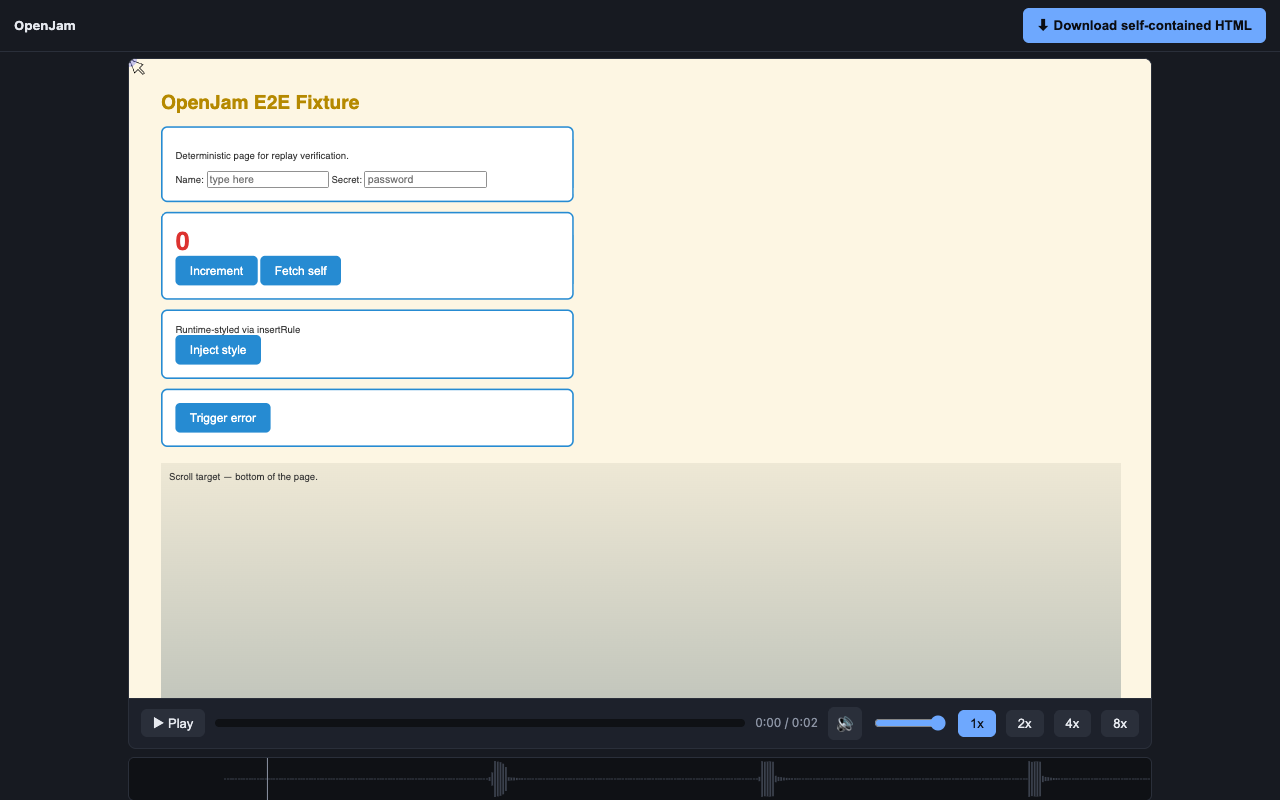
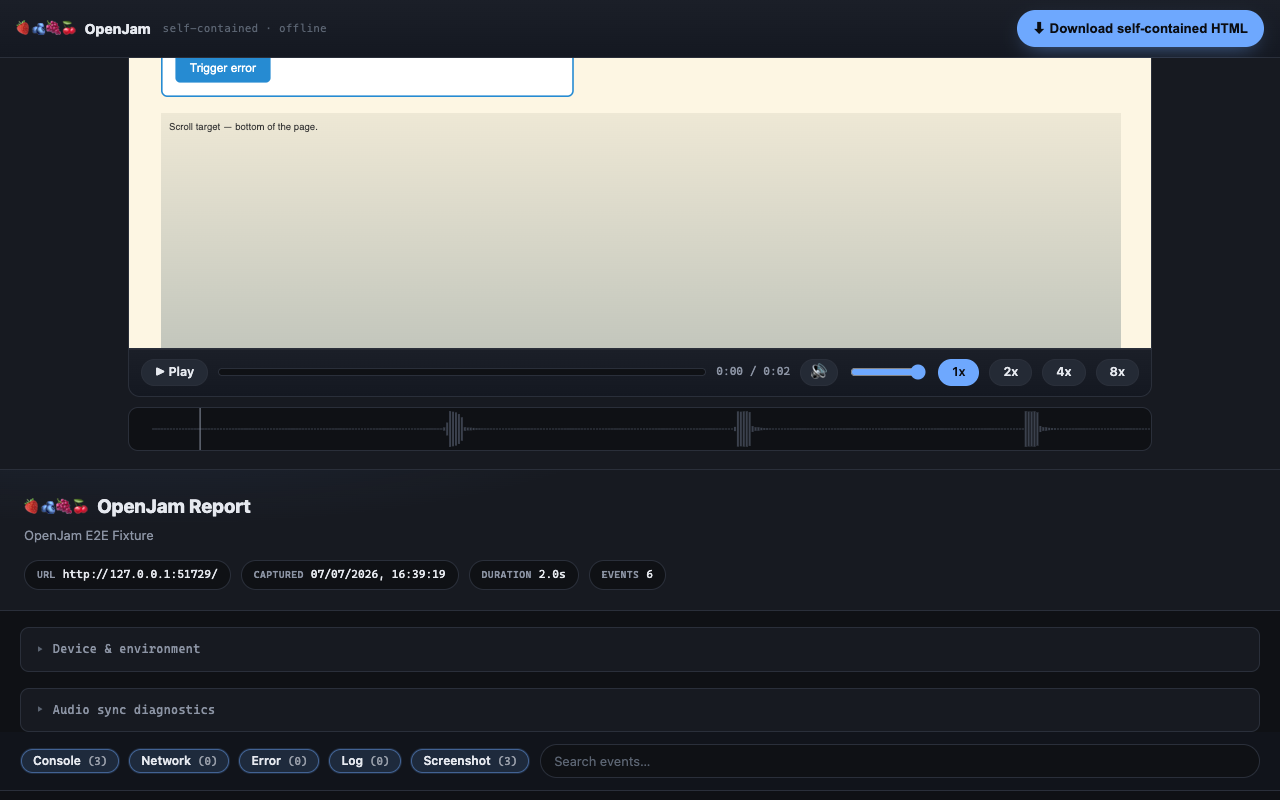
feat(viewer): restyle report/playback page to the popup design system
Rounded card surfaces, gradient/elevated panels, hairline borders, pill
filters and controls, mono microcopy, the 🍓🫐🍇🍒 mark, and the shared
palette tokens — matching <openjam-popup>. CSS-only: REPORT_CSS/REPLAY_CSS
in renderer.js and viewer.html's inline styles, plus an "offline"
microcopy line in the top bar. Every DOM hook the JS depends on is kept,
so renderer.js/viewer.js behaviour is unchanged (22/22 e2e green).

diff --git a/renderer.js b/renderer.js
@@ -4,70 +4,121 @@
 // standalone file via Function.prototype.toString().
 
 export const REPORT_CSS = `
-:root{--bg:#0f1115;--panel:#171a21;--panel2:#1d212b;--line:#2a2f3a;--fg:#e6e9ef;--muted:#8b93a3;--accent:#6ea8fe;--green:#3fb950;--orange:#d29922;--red:#f85149;--blue:#58a6ff;--violet:#bc8cff}
+:root{
+  --bg:#0f1115;--panel:#171a21;--panel2:#1d212b;--line:#2a2f3a;--fg:#e6e9ef;
+  --muted:#8b93a3;--dim:#5b6472;--accent:#6ea8fe;--accent-ink:#0b0d12;
+  --green:#3fb950;--orange:#d29922;--red:#f85149;--blue:#58a6ff;--violet:#bc8cff;--audio:#1d2b45;
+  --card:linear-gradient(180deg,#1b1f28,#141821);
+  --card-shadow:0 18px 40px -24px rgba(0,0,0,.8), 0 1px 0 rgba(255,255,255,.05) inset;
+  --sans:-apple-system,BlinkMacSystemFont,'Segoe UI',system-ui,Roboto,sans-serif;
+  --mono:ui-monospace,SFMono-Regular,'SF Mono','Cascadia Code',Menlo,Consolas,monospace;
+  --radius:14px;--radius-sm:9px;
+}
 *{box-sizing:border-box}
-body{margin:0;font:14px/1.5 -apple-system,BlinkMacSystemFont,"Segoe UI",Roboto,sans-serif;background:var(--bg);color:var(--fg)}
-header{padding:18px 22px;border-bottom:1px solid var(--line);background:var(--panel)}
-header h1{margin:0 0 4px;font-size:18px}
+body{margin:0;font:14px/1.55 var(--sans);background:var(--bg);color:var(--fg)}
+
+/* header */
+header{padding:22px 24px 20px;border-bottom:1px solid var(--line);
+  background:radial-gradient(760px 200px at 12% -60%,rgba(110,168,254,.10),transparent 70%),var(--panel)}
+header h1{margin:0 0 4px;font-size:19px;font-weight:800;letter-spacing:-.01em;display:flex;align-items:center;gap:9px}
+header h1::before{content:'🍓🫐🍇🍒';font-size:13px;letter-spacing:0;white-space:nowrap;flex:0 0 auto}
 header .sub{color:var(--muted);font-size:13px}
-.meta{display:flex;flex-wrap:wrap;gap:8px 20px;margin-top:10px;font-size:12px;color:var(--muted)}
-.meta b{color:var(--fg);font-weight:600}
-details.device{margin:0;border-bottom:1px solid var(--line);background:var(--panel)}
-details.device summary{padding:10px 22px;cursor:pointer;color:var(--muted);user-select:none}
-.device-grid{display:grid;grid-template-columns:repeat(auto-fill,minmax(260px,1fr));gap:6px 24px;padding:12px 22px 16px;font-size:12px}
-.device-grid div{overflow:hidden;text-overflow:ellipsis}
+.meta{display:flex;flex-wrap:wrap;gap:8px 10px;margin-top:15px}
+.meta>div{display:flex;align-items:center;gap:7px;background:var(--bg);border:1px solid var(--line);
+  border-radius:999px;padding:5px 12px;font-family:var(--mono);font-size:11.5px;color:var(--fg);
+  white-space:nowrap;overflow:hidden;text-overflow:ellipsis;max-width:100%}
+.meta b{color:var(--muted);font-weight:600;letter-spacing:.04em;text-transform:uppercase;font-size:10px}
+
+/* device + audio-sync diagnostics (details.device) */
+details.device{margin:16px 20px 0;border:1px solid var(--line);border-radius:var(--radius-sm);background:var(--panel);overflow:hidden}
+details.device summary{padding:12px 16px;cursor:pointer;color:var(--muted);user-select:none;
+  font-family:var(--mono);font-size:12px;letter-spacing:.03em;list-style:none;display:flex;align-items:center;gap:9px}
+details.device summary::-webkit-details-marker{display:none}
+details.device summary::before{content:'▸';color:var(--dim);transition:transform .15s ease;font-size:11px}
+details.device[open] summary::before{transform:rotate(90deg)}
+.device-grid{display:grid;grid-template-columns:repeat(auto-fill,minmax(260px,1fr));gap:8px 24px;
+  padding:4px 16px 16px;font-size:12px;font-family:var(--mono)}
+.device-grid div{overflow:hidden;text-overflow:ellipsis;white-space:nowrap}
 .device-grid span{color:var(--muted)}
-.toolbar{position:sticky;top:0;z-index:5;display:flex;flex-wrap:wrap;gap:8px;align-items:center;padding:10px 22px;background:var(--panel2);border-bottom:1px solid var(--line)}
-.toolbar input[type=search]{flex:1;min-width:160px;background:var(--bg);border:1px solid var(--line);color:var(--fg);padding:6px 10px;border-radius:6px}
+
+/* toolbar */
+.toolbar{position:sticky;top:0;z-index:5;display:flex;flex-wrap:wrap;gap:10px;align-items:center;
+  padding:12px 20px;background:rgba(17,20,27,.88);backdrop-filter:saturate(140%) blur(9px);
+  -webkit-backdrop-filter:saturate(140%) blur(9px);border-bottom:1px solid var(--line)}
+.toolbar input[type=search]{flex:1;min-width:180px;background:var(--bg);border:1px solid var(--line);
+  color:var(--fg);padding:8px 13px;border-radius:999px;font:13px/1 var(--sans);outline:none;
+  transition:border-color .15s ease,box-shadow .15s ease}
+.toolbar input[type=search]::placeholder{color:var(--dim)}
+.toolbar input[type=search]:focus{border-color:var(--accent);box-shadow:0 0 0 3px rgba(110,168,254,.18)}
 .filters{display:flex;gap:8px;flex-wrap:wrap}
-.filter{border:1px solid var(--line);background:var(--bg);color:var(--muted);padding:5px 10px;border-radius:999px;cursor:pointer;font-size:12px}
-.filter.on{color:var(--fg);border-color:var(--accent)}
-.filter .count{opacity:.7;margin-left:4px}
-.timeline{padding:8px 0 40px}
-.row{display:grid;grid-template-columns:84px 70px 1fr;gap:10px;padding:7px 22px;border-bottom:1px solid #1c1f27;cursor:pointer;align-items:baseline}
-.row:hover{background:#141823}
-.row .time{color:var(--muted);font-variant-numeric:tabular-nums;font-size:12px;white-space:nowrap}
-.badge{font-size:10px;font-weight:700;letter-spacing:.04em;text-transform:uppercase;padding:2px 6px;border-radius:4px;text-align:center;align-self:start}
+.filter{border:1px solid var(--line);background:var(--bg);color:var(--muted);padding:6px 12px;border-radius:999px;
+  cursor:pointer;font:12px/1 var(--sans);font-weight:600;text-transform:capitalize;display:inline-flex;
+  align-items:center;gap:6px;transition:color .14s ease,border-color .14s ease,background .14s ease,box-shadow .14s ease}
+.filter:hover{border-color:var(--muted);color:var(--fg)}
+.filter.on{color:var(--fg);border-color:transparent;background:rgba(110,168,254,.15);box-shadow:inset 0 0 0 1px rgba(110,168,254,.45)}
+.filter .count{opacity:.6;margin-left:1px;font-family:var(--mono);font-size:11px;font-weight:500}
+
+/* timeline */
+.timeline{padding:12px 14px 48px}
+.row{display:grid;grid-template-columns:80px 76px 1fr;gap:12px;padding:9px 12px;border-radius:9px;
+  cursor:pointer;align-items:baseline;transition:background .12s ease}
+.row+.row{margin-top:1px}
+.row:hover{background:#151a24}
+.row .time{color:var(--muted);font-variant-numeric:tabular-nums;font-size:11.5px;white-space:nowrap;font-family:var(--mono)}
+.badge{font-size:9.5px;font-weight:700;letter-spacing:.06em;text-transform:uppercase;padding:3px 0;border-radius:999px;
+  text-align:center;align-self:start;font-family:var(--mono)}
 .b-console{background:#22303f;color:var(--blue)}
 .b-network{background:#2b2440;color:var(--violet)}
 .b-error{background:#3a1f23;color:var(--red)}
 .b-log{background:#26303a;color:var(--muted)}
 .b-screenshot{background:#1f3a2a;color:var(--green)}
-.summary{overflow:hidden;text-overflow:ellipsis;white-space:nowrap;font-family:ui-monospace,SFMono-Regular,Menlo,monospace;font-size:13px}
+.summary{overflow:hidden;text-overflow:ellipsis;white-space:nowrap;font-family:var(--mono);font-size:13px;line-height:1.5}
 .row.lvl-error .summary,.row.lvl-warning .summary{white-space:normal}
-.row.oj-audio-active{background:#1d2b45;box-shadow:inset 3px 0 0 #6ea8fe}
+.row.oj-audio-active{background:var(--audio);box-shadow:inset 3px 0 0 var(--accent)}
 .lvl-error .summary{color:var(--red)}
 .lvl-warning .summary{color:var(--orange)}
 .status{font-weight:700}
 .s2{color:var(--green)}.s3{color:var(--blue)}.s4{color:var(--orange)}.s5{color:var(--red)}.sfail{color:var(--red)}
-.detail{grid-column:1/-1;margin-top:8px;background:var(--panel);border:1px solid var(--line);border-radius:8px;padding:12px;font-family:ui-monospace,SFMono-Regular,Menlo,monospace;font-size:12px;white-space:pre-wrap;word-break:break-word;cursor:auto}
-.detail h4{margin:10px 0 4px;font-family:-apple-system,sans-serif;color:var(--muted);font-size:11px;text-transform:uppercase;letter-spacing:.05em}
+
+/* detail (expanded row) */
+.detail{grid-column:1/-1;margin-top:10px;background:var(--card);border:1px solid var(--line);border-radius:12px;
+  padding:14px 16px;font-family:var(--mono);font-size:12px;line-height:1.6;white-space:pre-wrap;
+  word-break:break-word;cursor:auto;box-shadow:var(--card-shadow)}
+.detail h4{margin:14px 0 5px;font-family:var(--sans);color:var(--accent);font-size:10.5px;text-transform:uppercase;letter-spacing:.08em;font-weight:700}
 .detail h4:first-child{margin-top:0}
 .kv{color:var(--muted)}
-.detail img{max-width:100%;border:1px solid var(--line);border-radius:6px;margin-top:4px}
-.empty{padding:40px 22px;text-align:center;color:var(--muted)}
+.detail img{max-width:100%;border:1px solid var(--line);border-radius:8px;margin-top:6px}
+.empty{padding:48px 22px;text-align:center;color:var(--dim);font-family:var(--mono);font-size:13px}
 `;
 
 export const REPLAY_CSS = `
-#replay-section{border-bottom:1px solid #2a2f3a;background:#171a21;padding:14px 22px}
-#replay-section h2{margin:0 0 10px;font-size:13px;color:#8b93a3;text-transform:uppercase;letter-spacing:.05em}
+#replay-section{border-bottom:1px solid var(--line);background:var(--panel);padding:18px 20px}
+#replay-section h2,#audio-section h2{margin:0 0 12px;font-size:11px;color:var(--muted);text-transform:uppercase;
+  letter-spacing:.11em;font-family:var(--mono);font-weight:600;display:flex;align-items:center;gap:9px}
+#replay-section h2::before,#audio-section h2::before{content:'';width:7px;height:7px;border-radius:50%;
+  background:var(--accent);box-shadow:0 0 0 4px rgba(110,168,254,.16)}
 #replay{display:flex;justify-content:center}
 .oj-player{max-width:1024px;width:100%}
-.oj-stage{position:relative;overflow:hidden;background:#fff;border-radius:8px 8px 0 0;border:1px solid #2a2f3a;border-bottom:0}
+.oj-stage{position:relative;overflow:hidden;background:#fff;border-radius:12px 12px 0 0;border:1px solid var(--line);border-bottom:0}
 .oj-stage .replayer-wrapper{transform-origin:0 0;position:absolute;left:0;top:0}
 .oj-stage iframe{border:0;pointer-events:none}
-.oj-controls{display:flex;align-items:center;gap:10px;padding:8px 12px;background:#1d212b;border:1px solid #2a2f3a;border-radius:0 0 8px 8px}
-.oj-controls button{background:#2a2f3a;color:#e6e9ef;border:0;border-radius:6px;padding:6px 12px;font-size:13px;cursor:pointer}
-.oj-controls button.oj-on{background:#6ea8fe;color:#0b0d12}
-.oj-progress{flex:1;height:8px;background:#0f1115;border-radius:4px;cursor:pointer;position:relative}
-.oj-progress-fill{height:100%;width:0;background:#6ea8fe;border-radius:4px;pointer-events:none}
-.oj-time{color:#8b93a3;font-size:12px;font-variant-numeric:tabular-nums;white-space:nowrap}
-.oj-hover-time{position:absolute;bottom:calc(100% + 6px);transform:translateX(-50%);display:none;background:#0b0d12;border:1px solid #2a2f3a;color:#e6e9ef;font-size:11px;padding:2px 6px;border-radius:4px;white-space:nowrap;font-variant-numeric:tabular-nums;z-index:2}
+.oj-controls{display:flex;align-items:center;gap:10px;padding:10px 12px;background:var(--card);
+  border:1px solid var(--line);border-radius:0 0 12px 12px;box-shadow:var(--card-shadow)}
+.oj-controls button{background:#242a35;color:var(--fg);border:1px solid var(--line);border-radius:999px;
+  padding:6px 13px;font:12.5px/1 var(--sans);font-weight:600;cursor:pointer;transition:border-color .14s ease,background .14s ease}
+.oj-controls button:hover{border-color:var(--muted)}
+.oj-controls button.oj-on{background:var(--accent);color:var(--accent-ink);border-color:transparent}
+.oj-progress{flex:1;height:8px;background:var(--bg);border:1px solid var(--line);border-radius:999px;cursor:pointer;position:relative}
+.oj-progress-fill{height:100%;width:0;background:var(--accent);border-radius:999px;pointer-events:none}
+.oj-time{color:var(--muted);font-size:11.5px;font-variant-numeric:tabular-nums;white-space:nowrap;font-family:var(--mono)}
+.oj-hover-time{position:absolute;bottom:calc(100% + 8px);transform:translateX(-50%);display:none;background:#0b0d12;
+  border:1px solid var(--line);color:var(--fg);font-size:11px;padding:3px 7px;border-radius:6px;white-space:nowrap;
+  font-variant-numeric:tabular-nums;z-index:2;font-family:var(--mono)}
 .oj-progress:hover .oj-hover-time,.oj-waveform:hover .oj-hover-time{display:block}
-.oj-vol{width:72px;accent-color:#6ea8fe;cursor:pointer}
-.oj-controls button.oj-icon{padding:6px 9px}
-.oj-waveform{position:relative;margin-top:8px;height:44px;background:#0f1115;border:1px solid #2a2f3a;border-radius:6px;overflow:hidden;cursor:pointer}
-.oj-waveform .oj-hover-time{bottom:auto;top:6px}
+.oj-vol{width:76px;accent-color:var(--accent);cursor:pointer}
+.oj-controls button.oj-icon{padding:6px 10px}
+.oj-waveform{position:relative;margin-top:10px;height:44px;background:var(--bg);border:1px solid var(--line);border-radius:10px;overflow:hidden;cursor:pointer}
+.oj-waveform .oj-hover-time{bottom:auto;top:8px}
 .oj-wave{position:absolute;inset:0;width:100%;height:100%;pointer-events:none}
 `;
 

diff --git a/viewer.html b/viewer.html
@@ -5,21 +5,26 @@
 <title>OpenJam Report</title>
 <style>
   html,body{height:100%;margin:0}
-  body{display:flex;flex-direction:column;background:#0f1115;color:#e6e9ef;font:13px -apple-system,BlinkMacSystemFont,sans-serif}
-  #bar{display:flex;align-items:center;gap:12px;padding:8px 14px;border-bottom:1px solid #2a2f3a;background:#171a21}
-  #bar strong{font-size:13px}
+  body{display:flex;flex-direction:column;background:#0f1115;color:#e6e9ef;font:13px -apple-system,BlinkMacSystemFont,'Segoe UI',system-ui,Roboto,sans-serif}
+  #bar{display:flex;align-items:center;gap:12px;padding:10px 16px;border-bottom:1px solid #2a2f3a;background:linear-gradient(180deg,#1b1f28,#141821)}
+  #bar strong{font-size:14px;font-weight:800;letter-spacing:-.01em;display:flex;align-items:center;gap:9px;white-space:nowrap;flex:0 0 auto}
+  #bar strong::before{content:'🍓🫐🍇🍒';font-size:12px;white-space:nowrap}
   #bar .spacer{flex:1}
-  #bar button{background:#6ea8fe;color:#0b0d12;border:0;border-radius:6px;padding:7px 14px;font-weight:600;cursor:pointer}
+  #bar .note{font-family:ui-monospace,SFMono-Regular,'SF Mono',Menlo,Consolas,monospace;font-size:11px;color:#5b6472;letter-spacing:.02em}
+  #bar button{background:#6ea8fe;color:#0b0d12;border:0;border-radius:999px;padding:8px 16px;font-weight:650;
+    cursor:pointer;box-shadow:0 8px 22px -10px rgba(110,168,254,.7);transition:background .15s ease,transform .15s ease}
+  #bar button:hover{background:#8bbcff;transform:translateY(-1px)}
   #scroll{flex:1;overflow:auto}
   #app a,#replay a{color:#6ea8fe;display:inline-block;margin-top:6px}
-  .oj-error{margin-top:8px;padding:10px 12px;border:1px solid #f85149;border-radius:6px;background:rgba(248,81,73,.15);color:#ff7b72;font-weight:600;max-width:560px}
-  .pii-warning{margin-top:8px;padding:10px 12px;border:1px solid #d29922;border-radius:6px;background:rgba(210,153,34,.15);color:#e3b341;font-weight:600;max-width:560px}
+  .oj-error{margin-top:8px;padding:11px 13px;border:1px solid #f85149;border-radius:9px;background:rgba(248,81,73,.14);color:#ff8078;font-weight:600;max-width:560px;font-size:12.5px;line-height:1.5}
+  .pii-warning{margin-top:8px;padding:11px 13px;border:1px solid #d29922;border-radius:9px;background:rgba(210,153,34,.14);color:#e3b341;font-weight:600;max-width:560px;font-size:12.5px;line-height:1.5}
 </style>
 <link rel="stylesheet" href="dist/rrweb-replay.css">
 </head>
 <body>
   <div id="bar">
     <strong>OpenJam</strong>
+    <span class="note">self-contained · offline</span>
     <span class="spacer"></span>
     <button id="download">⬇ Download self-contained HTML</button>
   </div>